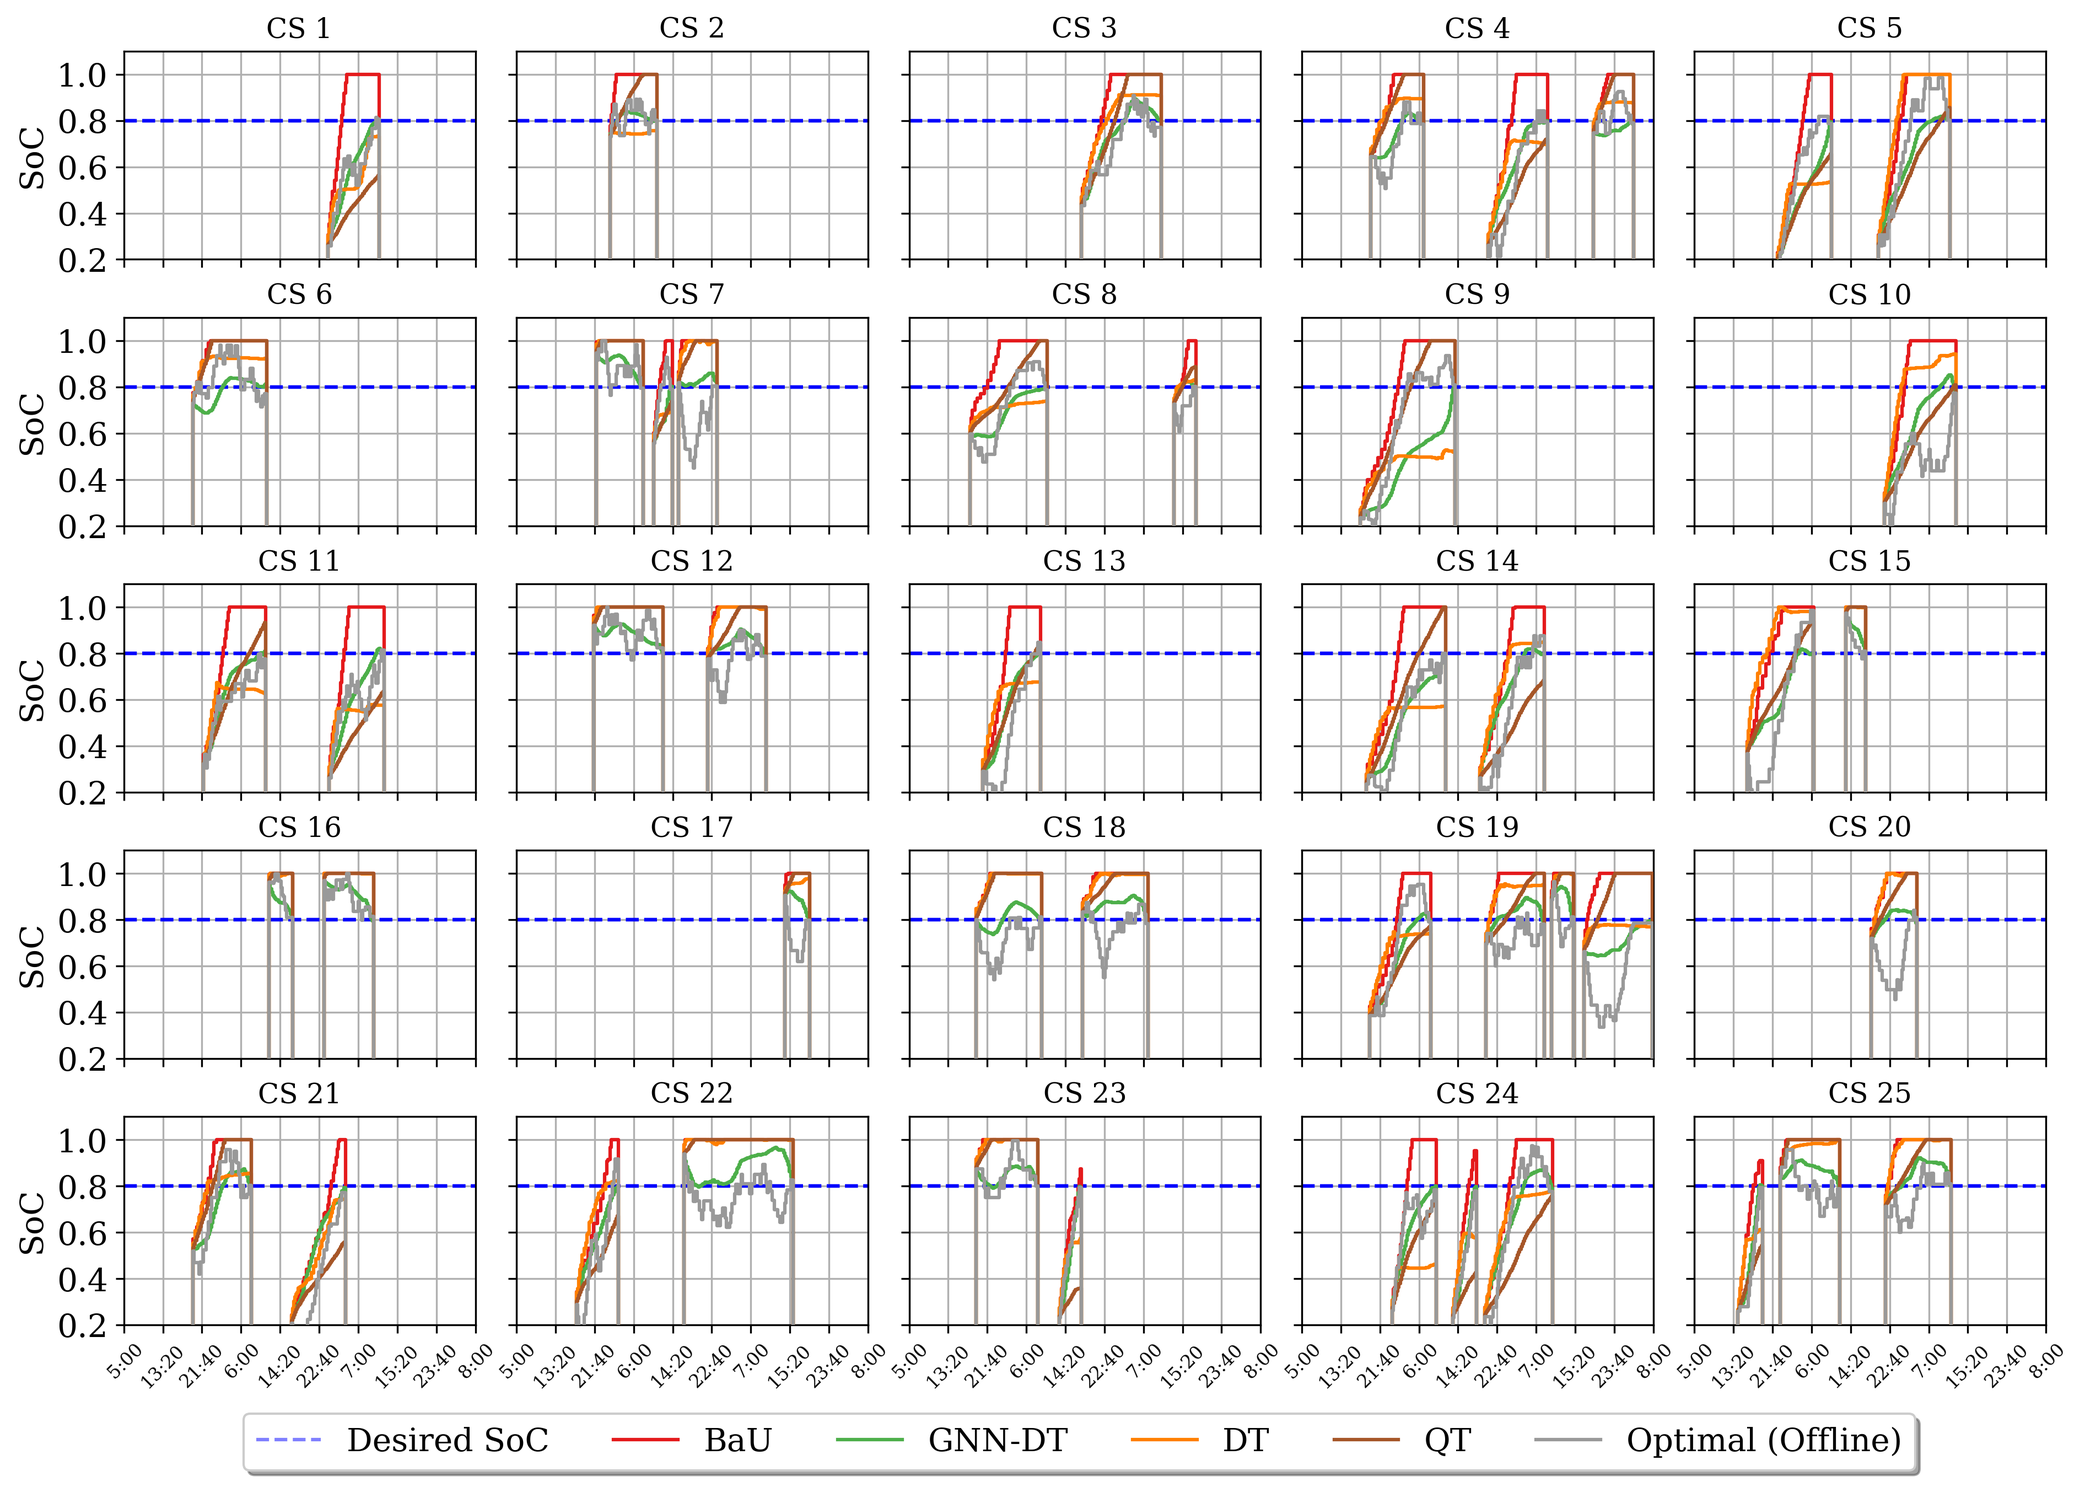
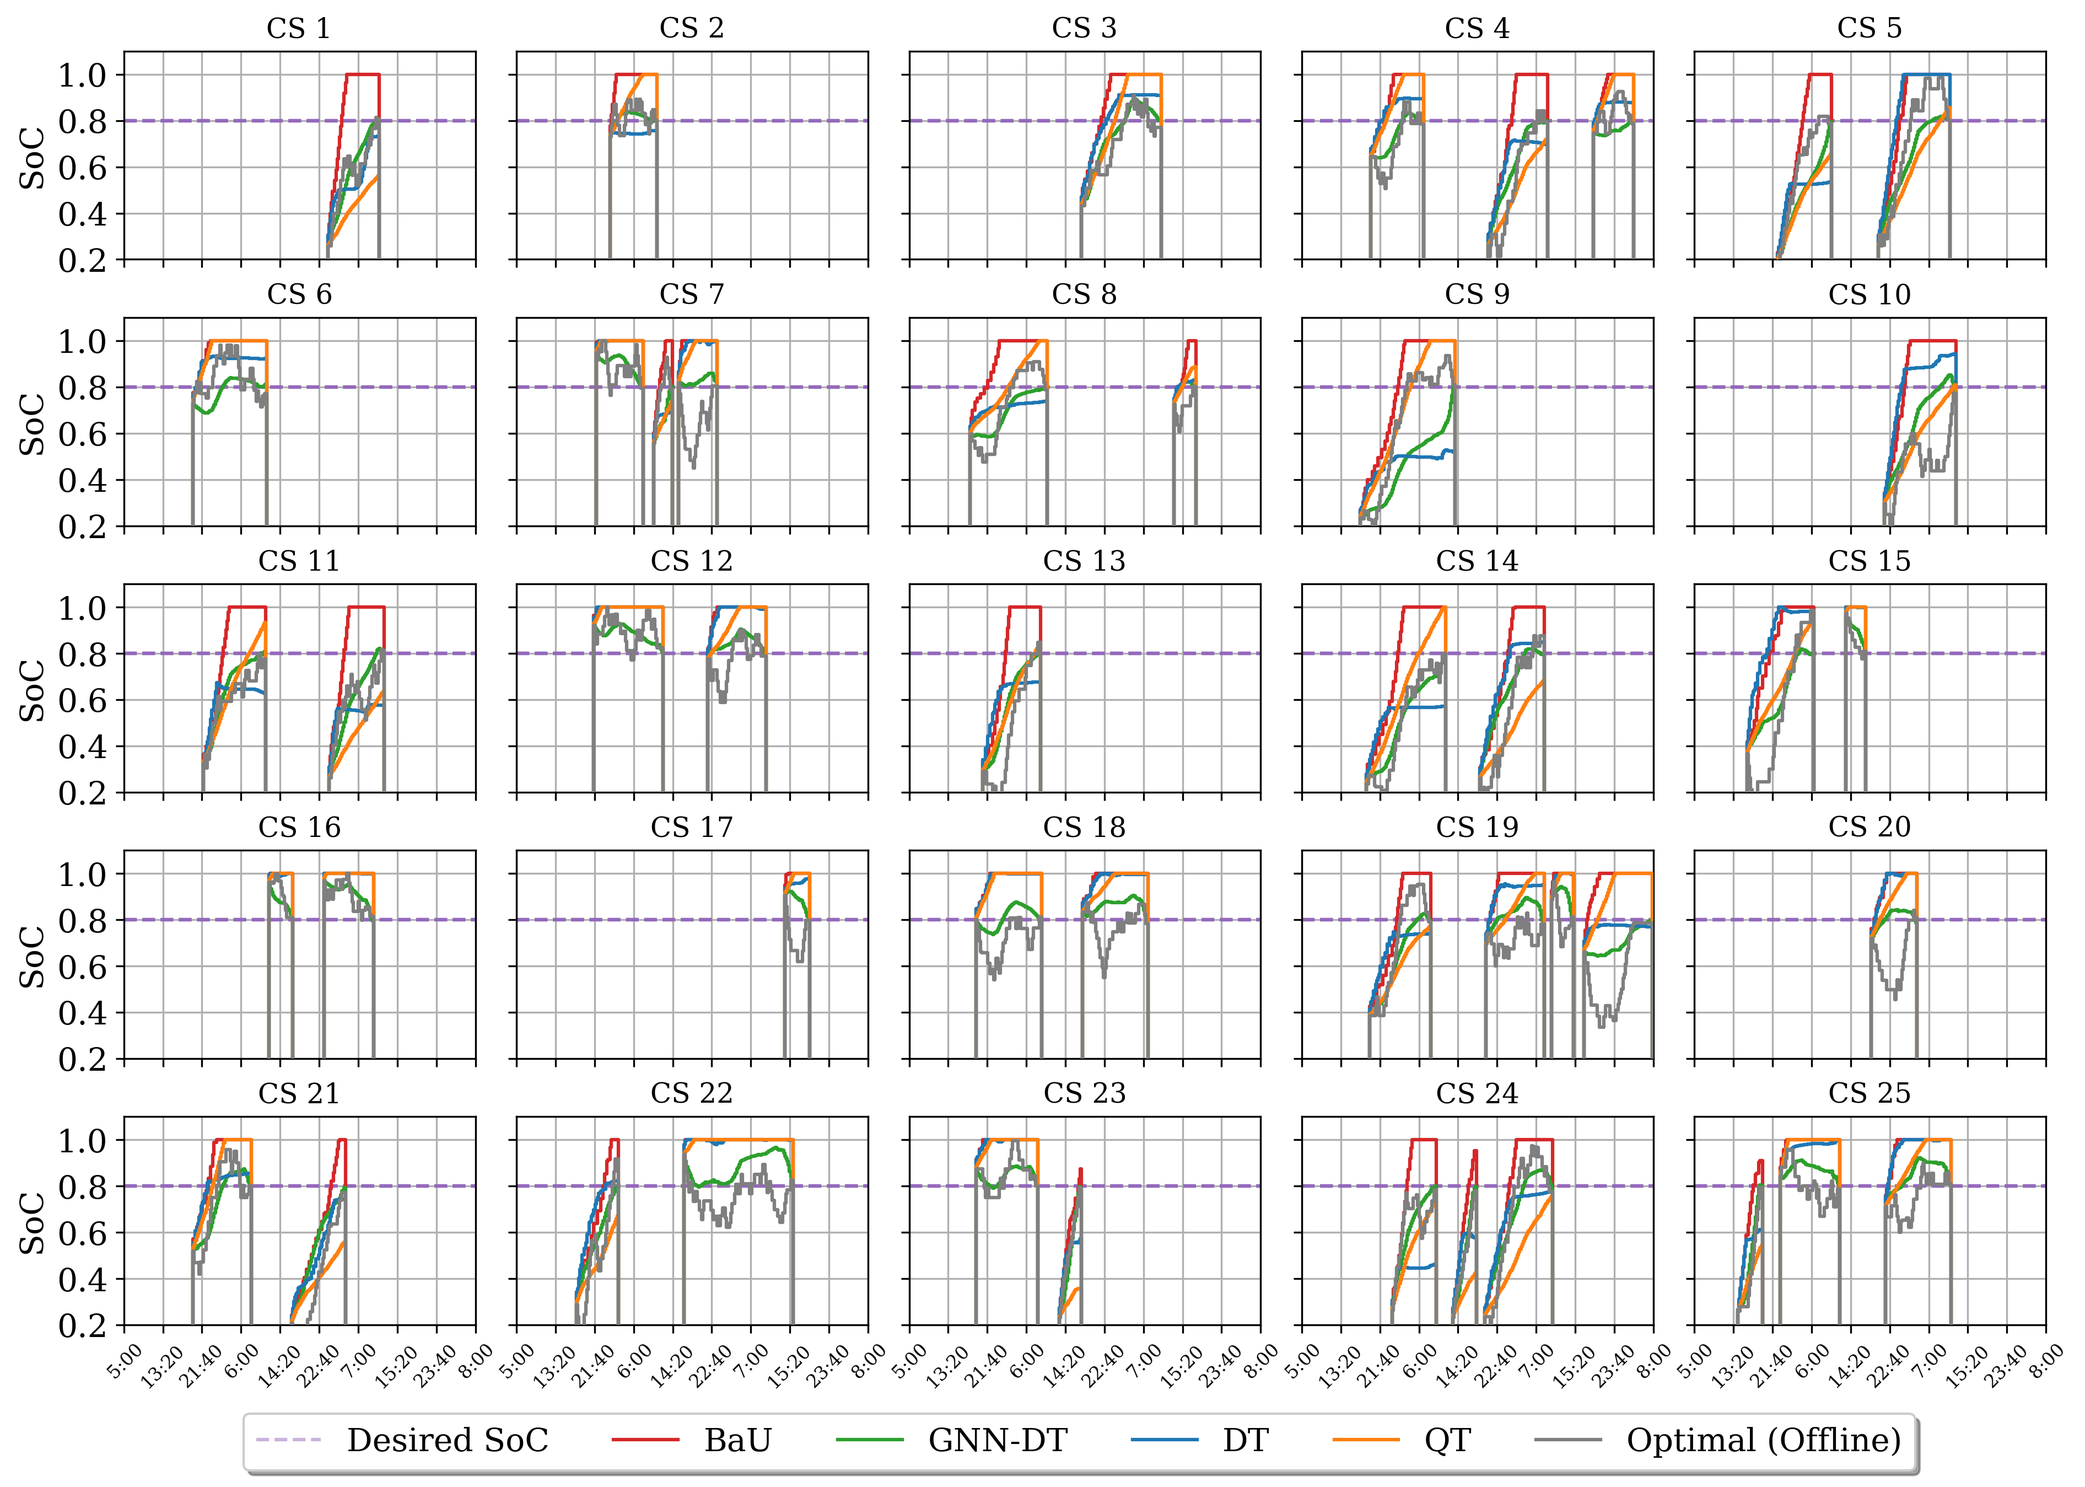
Update evaluator parameters, enhance plotting with seaborn colors, and refine generalization analysis for improved clarity and visualization

diff --git a/results_analysis/EV_charging_metrics.py b/results_analysis/EV_charging_metrics.py
@@ -1,0 +1,136 @@
+import pandas as pd
+
+
+data = pd.read_csv(
+     './results_analysis/data/eval_25cs_1tr_PST_V2G_ProfixMax_25_6_algos_100_exp_2025_01_09_961980/data.csv')
+
+
+# group by algotithm and get mean and std
+columns = ['Unnamed: 0', 'run', 'Algorithm', 'total_ev_served', 'total_profits',
+           'total_energy_charged', 'total_energy_discharged',
+           'average_user_satisfaction', 'power_tracker_violation',
+           'tracking_error', 'energy_tracking_error', 'energy_user_satisfaction',
+           'total_transformer_overload', 'battery_degradation',
+           'battery_degradation_calendar', 'battery_degradation_cycling',
+           'total_reward']
+
+columns_to_keep = ['Algorithm', 
+                   'run',
+                   'total_energy_charged',
+                   'total_energy_discharged',
+                   'average_user_satisfaction',
+                   'power_tracker_violation',
+                #    'energy_tracking_error',
+                   'total_profits',
+                    'total_reward',
+                   'time',
+]
+data = data[columns_to_keep]
+
+# find the PowerTrackingErrorrMin.total_reward
+PowerTrackingErrorrMin = data[data.Algorithm ==
+                              "PowerTrackingErrorrMin"]
+# find the mean and std of the optimality gap for each algorithm
+
+print(data.head(20))
+
+columns_to_drop = [
+    'run',
+]
+
+data = data.drop(columns=columns_to_drop)
+
+
+data_grouped = data.groupby('Algorithm').agg(['mean', 'std'])
+
+# create new columns with the mean and std of the total_energy_charged combined as a string
+data_grouped['total_energy_charged'] = data_grouped['total_energy_charged']\
+    .apply(lambda x: f"${x['mean']/1000:.1f}$ ±${x['std']/1000:.1f}$", axis=1)
+data_grouped['total_energy_discharged'] = data_grouped['total_energy_discharged']\
+    .apply(lambda x: f"${x['mean']/1000:.2f}$ ±${x['std']/1000:.2f}$", axis=1)
+data_grouped['average_user_satisfaction'] = data_grouped['average_user_satisfaction']\
+    .apply(lambda x: f"${x['mean']*100:.1f}$ ±${x['std']*100:.1f}$", axis=1)
+data_grouped['total_profits'] = data_grouped['total_profits']\
+    .apply(lambda x: f"${x['mean']:.0f}$ ±${x['std']:.0f}$", axis=1)
+data_grouped['power_tracker_violation'] = data_grouped['power_tracker_violation']\
+    .apply(lambda x: f"${x['mean']:.1f}$ ±${x['std']:.1f}$", axis=1)
+data_grouped['total_reward'] = data_grouped['total_reward']\
+       .apply(lambda x: f"${x['mean']/100000:.3f}$ ±${x['std']/100000:.3f}$", axis=1)
+data_grouped['time'] = data_grouped['time']\
+       .apply(lambda x: f"${x['mean']/300:.3f}$", axis=1)
+
+# rearange rows
+
+
+# drop the mean and std columns
+data_grouped = data_grouped.droplevel(1, axis=1)
+# print the results
+# drop duplicate columns
+data_grouped = data_grouped.loc[:, ~data_grouped.columns.duplicated()]
+# rename columns
+data_grouped.columns = ['Energy Charged [MWh]',
+                        'Energy Discharged [MWh]',
+                        'User Satisfaction [%]',
+                        'Power Violation [kW]',
+                        'Costs [€]',                        
+                        'Reward [-]',
+                        'Step time [sec/step]',                        
+                        ]
+
+print(data_grouped)
+
+# rename algorithm names with shorter names
+data_grouped.index = data_grouped.index.str.replace(
+    'ChargeAsFastAsPossible', 'CAFAP')
+data_grouped.index = data_grouped.index.str.replace(
+    'QT', 'Q-DT')
+data_grouped.index = data_grouped.index.str.replace('RoundRobin_GF', 'BaU')
+data_grouped.index = data_grouped.index.str.replace(
+    'mo_PST_V2GProfitMaxOracleGB', 'Optimal (Offline)')
+data_grouped.index = data_grouped.index.str.replace('GNN_act_emb_DT', 'GNN-DT')
+
+
+
+# change order of rows
+data_grouped = data_grouped.reindex(['CAFAP',
+                                     'BaU',
+                                     'DT',
+                                     'Q-DT',
+                                     'GNN-DT',
+                                     'Optimal (Offline)'
+                                     ])
+
+
+# rename PowerTrackingErrorrMin to Optimal
+# print(data_grouped)
+print(data_grouped.to_latex())
+
+
+
+
+
+
+
+
+
+# % \usepackage{tabularray}
+# \begin{table}
+# \centering
+# \captionsetup{labelformat=empty}
+# \caption{Analysis of the Overall Reward into its Three Components}
+# \label{tab:reward_breakdown}
+# \begin{tblr}{
+#   cells = {c,t},
+#   vline{2} = {2-7}{0.05em},
+#   hline{1,8} = {-}{0.08em},
+#   hline{2} = {-}{0.05em},
+# }
+# Algorithm & {Energy Charged\\~[MWh]} & {Energy Discharged\\~[MWh]} & {User Satisfaction\\~[\%]} & {Power Violation\\~[kW]} & Costs~[€] & Reward [10-5] & {Exec. Time\\~[sec/step]}\\
+# CAFAP & $1.3$ ±$0.2$ & $0.00$ ±$0.00$ & $100.0$ ±$0.0$ & $1289.2$ ±$261.8$ & $-277$ ±$165$ & $-1.974$ ±$0.283$ & $0.001$\\
+# BaU & $1.3$ ±$0.2$ & $0.00$ ±$0.00$ & $99.9$ ±$0.2$ & $10.5$ ±$9.4$ & $-255$ ±$156$ & $-0.679$ ±$0.067$ & $0.001$\\
+# DT & $0.9$ ±$0.1$ & $0.03$ ±$0.01$ & $94.4$ ±$1.6$ & $58.7$ ±$28.3$ & $-173$ ±$104$ & $-0.462$ ±$0.093$ & $0.006$\\
+# Q-DT & $1.0$ ±$0.1$ & $0.00$ ±$0.00$ & $93.6$ ±$2.1$ & $20.1$ ±$21.4$ & $-187$ ±$113$ & $-0.665$ ±$0.135$ & $0.010$\\
+# GNN-DT & $0.9$ ±$0.1$ & $0.19$ ±$0.03$ & $99.3$ ±$0.2$ & $21.7$ ±$22.8$ & $-142$ ±$89$ & $-0.027$ ±$0.023$ & $0.023$\\
+# Optimal (Offline) & $1.9$ ±$0.2$ & $1.08$ ±$0.19$ & $99.1$ ±$0.2$ & $2.0$ ±$4.6$ & $-119$ ±$84$ & $-0.020$ ±$0.015$ & -
+# \end{tblr}
+# \end{table}

diff --git a/results_analysis/generalization.py b/results_analysis/generalization.py
@@ -59,14 +59,7 @@ def plot_optimality_gap_in_generalization():
         data = data[data.Algorithm != "ChargeAsFastAsPossible"]
         for i, row in data.iterrows():
             run = row.run
-            # optimal = PowerTrackingErrorrMin.iloc[run].total_reward
             reward = row.total_reward
-            # data.at[i, 'G'] = ((reward - optimal) / optimal) * 100
-
-            # optimal_energy_tracking_error = PowerTrackingErrorrMin.iloc[run].energy_tracking_error
-            # energy_tracking_error = row.energy_tracking_error
-            # data.at[i, 'G_E'] = (
-            #     (energy_tracking_error - optimal_energy_tracking_error) / optimal_energy_tracking_error) * 100
 
             data.at[i, 'profits'] = row.total_profits
             data.at[i, 'energy_user_satisfaction'] = row.energy_user_satisfaction
@@ -107,9 +100,15 @@ def plot_optimality_gap_in_generalization():
     plt.rcParams.update({'font.size': 12})
 
     plt.rcParams['font.family'] = 'serif'
+    
+    #turn reward values to -1400 when algorithm is Optimal\n(Oracle)
+    # all_data.loc[all_data['Algorithm'] == 'Optimal\n(Oracle)', 'reward'] = -1400
+    # add -5000 reward for the GNN-DT algorithm (to make it more visible)
+    all_data.loc[all_data['Algorithm'] == 'GNN-DT', 'reward'] -= 10000
 
     # remove teh algorithm=RR_GF
     data = all_data[all_data.Algorithm != 'RR']
+    data = all_data[all_data.Algorithm != 'Optimal\n(Oracle)']
 
     # make subplots
 
@@ -127,20 +126,25 @@ def plot_optimality_gap_in_generalization():
     #             saturation=1,
     #             # palette=custom_palette,
     #             )
+    custom_palette = [
+        sns.color_palette()[3],
+        sns.color_palette()[0],
+        sns.color_palette()[1],        
+        sns.color_palette()[2],        
+        ]
+    # sns.color_palette()
     
     sns.barplot(x="case",
                 y="reward",
                 hue="Algorithm",
-                # remove outliers
-                # showfliers=False,
-                # notch=True,
                 hue_order=[
                     'BaU','DT', 'Q-DT', 'GNN-DT',
-                    'Optimal\n(Oracle)'],
+                    # 'Optimal\n(Oracle)'
+                    ],
                 data=all_data,
                 # alpha=0.9,
                 # saturation=1,
-                # palette=custom_palette,
+                palette=custom_palette,
                 zorder=2,
                 )
     
@@ -150,7 +154,8 @@ def plot_optimality_gap_in_generalization():
     #             kind='bar',
     #             hue_order=[
     #                 'BaU','DT', 'Q-DT', 'GNN-DT',
-    #                 'Optimal\n(Oracle)'],
+    #                 # 'Optimal\n(Oracle)'
+    #                 ],
     #             data=all_data,
 
     #             # alpha=0.9,
@@ -158,6 +163,9 @@ def plot_optimality_gap_in_generalization():
     #             # palette=custom_palette,
     #             zorder=2,
     #             )
+    
+    #add horizontal line at y=-1400
+    # plt.axhline(y=-1400, color='r', linestyle='--', linewidth=1, label='Optimal\n(Oracle)')
 
     # show grid
     plt.grid(axis='y', linestyle='--', alpha=0.5)
@@ -167,6 +175,10 @@ def plot_optimality_gap_in_generalization():
     plt.ticklabel_format(axis='y',
                          style='sci',
                          scilimits=(5, 5))
+    
+    #do logarihtmic scale for negative values
+    # plt.yscale('symlog')
+    
     
     plt.ylabel('Reward [-]', fontsize=12)
     plt.xlabel('', fontsize=12)
@@ -178,14 +190,23 @@ def plot_optimality_gap_in_generalization():
                title=' ',
                title_fontsize=12,
                frameon=False,
-               bbox_to_anchor=(0.45, -0.15),
+               bbox_to_anchor=(0.45, -0.12),
                )
     
-    plt.tight_layout()
+    plt.ylim(-8.5e5,0)
+    plt.yticks(np.arange(-8.5e5, 0, 1e5), fontsize=12)
+    
+    # plt.tight_layout()
+    plt.subplots_adjust(
+        left=0.15,    # Space from the left of the figure
+        bottom=0.24,   # Space from the bottom of the figure
+        right=0.99,   # Space from the right of the figure
+        top=0.948,     # Space from the top of the figure
+    )
 
     plt.savefig("./results_analysis/figs/generalization_eda.png")
     plt.savefig("./results_analysis/figs/generalization_eda.pdf")
-
+    # plt.show()
     exit()
 
     for i, case in enumerate(data.case.unique()):

diff --git a/plot_charging_analysis.py b/plot_charging_analysis.py
@@ -4,7 +4,7 @@ import pandas as pd
 import matplotlib.pyplot as plt
 import datetime
 import math
-
+import seaborn as sns
 
 def plot_comparable_EV_SoC(results_path,
                            save_path=None,
@@ -26,8 +26,15 @@ def plot_comparable_EV_SoC(results_path,
     for index, key in enumerate(replay.keys()):
         env = replay[key]
 
-        color_list_map = plt.cm.get_cmap('Set1', len(replay.keys()))
-        color_list = color_list_map(np.linspace(0, 1, len(replay.keys())))
+        # color_list_map = plt.cm.get_cmap('Set1', len(replay.keys()))
+        # color_list = color_list_map(np.linspace(0, 1, len(replay.keys())))
+        color_list = [
+            sns.color_palette()[3],
+            sns.color_palette()[2],   
+            sns.color_palette()[0],
+            sns.color_palette()[1],   
+            sns.color_palette()[7],                                  
+        ]
 
         date_range = pd.date_range(start=env.sim_starting_date,
                                    end=env.sim_starting_date +
@@ -49,13 +56,13 @@ def plot_comparable_EV_SoC(results_path,
             
             if counter == 25 and index == 0:
                 plt.axhline(y=0.8,
-                    color='blue',
+                    color=sns.color_palette()[4],
                     linestyle='--',
                     alpha=0.5,
                     label='Desired SoC')
             else:
                 plt.axhline(y=0.8,
-                    color='blue',
+                    color=sns.color_palette()[4],
                     linestyle='--',
                     alpha=0.5)
                 
@@ -271,7 +278,7 @@ def plot_comparable_EV_SoC_single(results_path,
 
     # plot a horizontal line at 0.8
     plt.axhline(y=0.8,
-                color='blue',
+                color=sns.color_palette()[4],
                 linestyle='--',
                 alpha=0.5,
                 label='Desired SoC')
@@ -292,6 +299,16 @@ def plot_comparable_EV_SoC_single(results_path,
 
         color_list_map = plt.cm.get_cmap('Set1', len(replay.keys()))
         color_list = color_list_map(np.linspace(0, 1, len(replay.keys())))
+        
+        
+        color_list = [
+            sns.color_palette()[3],
+            sns.color_palette()[2],   
+            sns.color_palette()[0],
+            sns.color_palette()[1],   
+            sns.color_palette()[7],
+                                  
+        ]
 
         cs_to_plot = 24
         counter = 1
@@ -586,6 +603,15 @@ def plot_comparable_CS_Power(results_path, save_path=None, algorithm_names=None)
 
         color_list_map = plt.cm.get_cmap('Set1', len(replay.keys()))
         color_list = color_list_map(np.linspace(0, 1, len(replay.keys())))
+        
+        color_list = [
+            sns.color_palette()[3],
+            sns.color_palette()[2],   
+            sns.color_palette()[0],
+            sns.color_palette()[1],   
+            sns.color_palette()[7],
+                                  
+        ]
 
         cs_to_plot = 24
         counter = 1

diff --git a/evaluator.py b/evaluator.py
@@ -57,7 +57,7 @@ def evaluator():
     device = "cuda" if torch.cuda.is_available() else "cpu"
 
     ############# Simulation Parameters #################
-    n_test_cycles = 1
+    n_test_cycles = 100
     SAVE_REPLAY_BUFFER = False
     SAVE_EV_PROFILES = False
 
@@ -69,16 +69,16 @@ def evaluator():
     # values in [0-1] probability of obs-delayed communication
     p_delay_list = [0]
 
-    config_file = "./config_files/PST_V2G_ProfixMax_25.yaml"    
+    # config_file = "./config_files/PST_V2G_ProfixMax_25.yaml"    
     # config_file = "./config_files/PST_V2G_ProfixMax_25_G1.yaml"
     # config_file = "./config_files/PST_V2G_ProfixMax_25_G2.yaml"
     # config_file = "./config_files/PST_V2G_ProfixMax_25_G3.yaml"
 
     #diffrent CS number comparison
-    # config_file = "./config_files/PST_V2G_ProfixMax_25_CS5.yaml"
-    # config_file = "./config_files/PST_V2G_ProfixMax_25_CS50.yaml"
-    # config_file = "./config_files/PST_V2G_ProfixMax_25_CS75.yaml"
-    # config_file = "./config_files/PST_V2G_ProfixMax_25_CS100.yaml"    
+    config_file = "./config_files/PST_V2G_ProfixMax_25_CS5.yaml"
+    config_file = "./config_files/PST_V2G_ProfixMax_25_CS50.yaml"
+    config_file = "./config_files/PST_V2G_ProfixMax_25_CS75.yaml"
+    config_file = "./config_files/PST_V2G_ProfixMax_25_CS100.yaml"    
 
     
     # config_file = "./config_files/PST_V2G_ProfixMax_250.yaml"
@@ -93,15 +93,15 @@ def evaluator():
     # Algorithms to compare:
     # Use algorithm name or the saved RL model path as string
     algorithms = [
-        # ChargeAsFastAsPossible,
+        ChargeAsFastAsPossible,
         RoundRobin_GF,
         # "gnn_in_out_dt_run_20_K=10_batch=128_dataset=optimal_2000_embed_dim=128_n_layer=3_n_head=427839.optimal_2000.527996",
         # "gnn_act_emb_run_42_K=2_batch=128_dataset=optimal_2000_embed_dim=128_n_layer=3_n_head=451760.optimal_2000.835025",
 
         ################## Best models ##################################
         'gnn_act_emb_run_40_K=10_dataset=optimal_25_1000_25724_537244',
-        'dt_run_10_K=10_dataset=bau_10000_94967_118081',
-        'QT_run_30_K=2_dataset=optimal_1000_87175_301984',
+        # 'dt_run_10_K=10_dataset=bau_10000_94967_118081',
+        # 'QT_run_30_K=2_dataset=optimal_1000_87175_301984',
         #################################################################
 
         # ChargeAsLateAsPossible,
